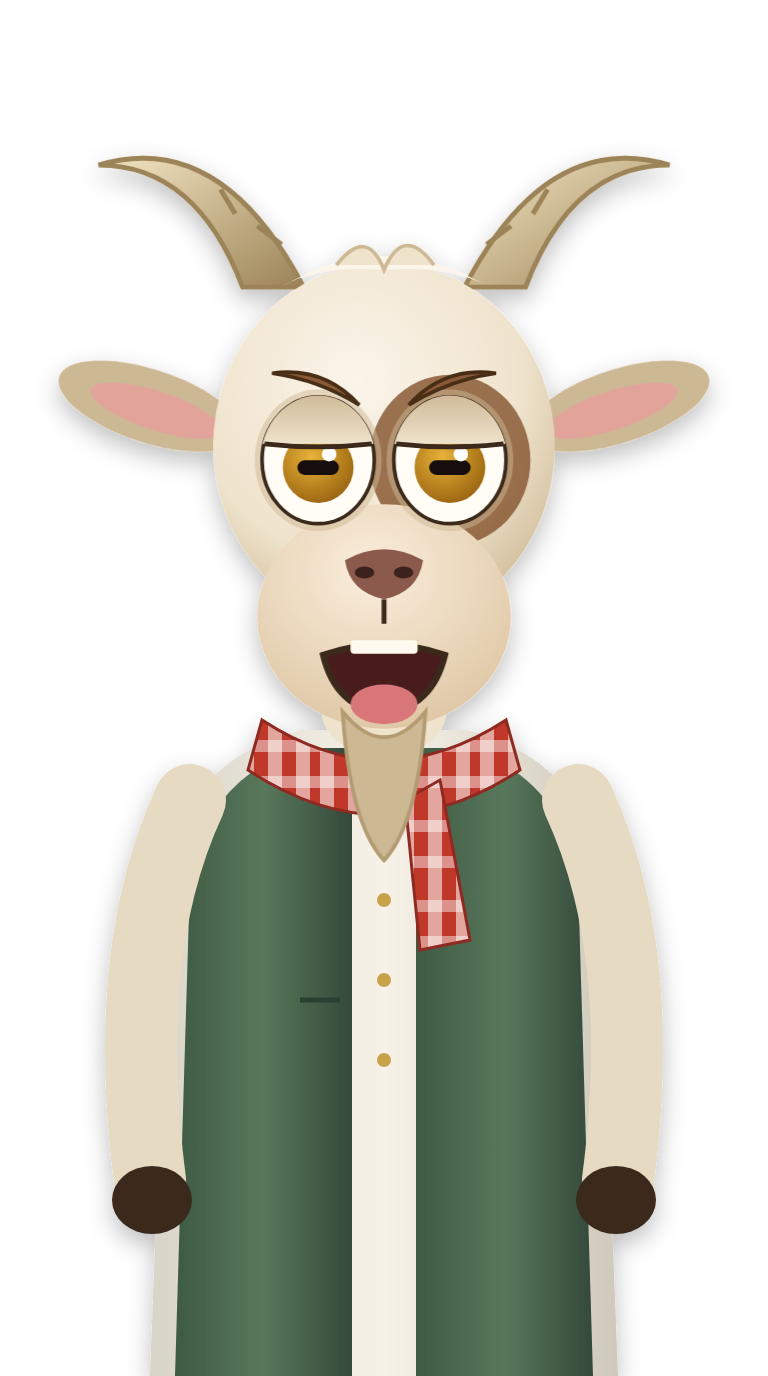
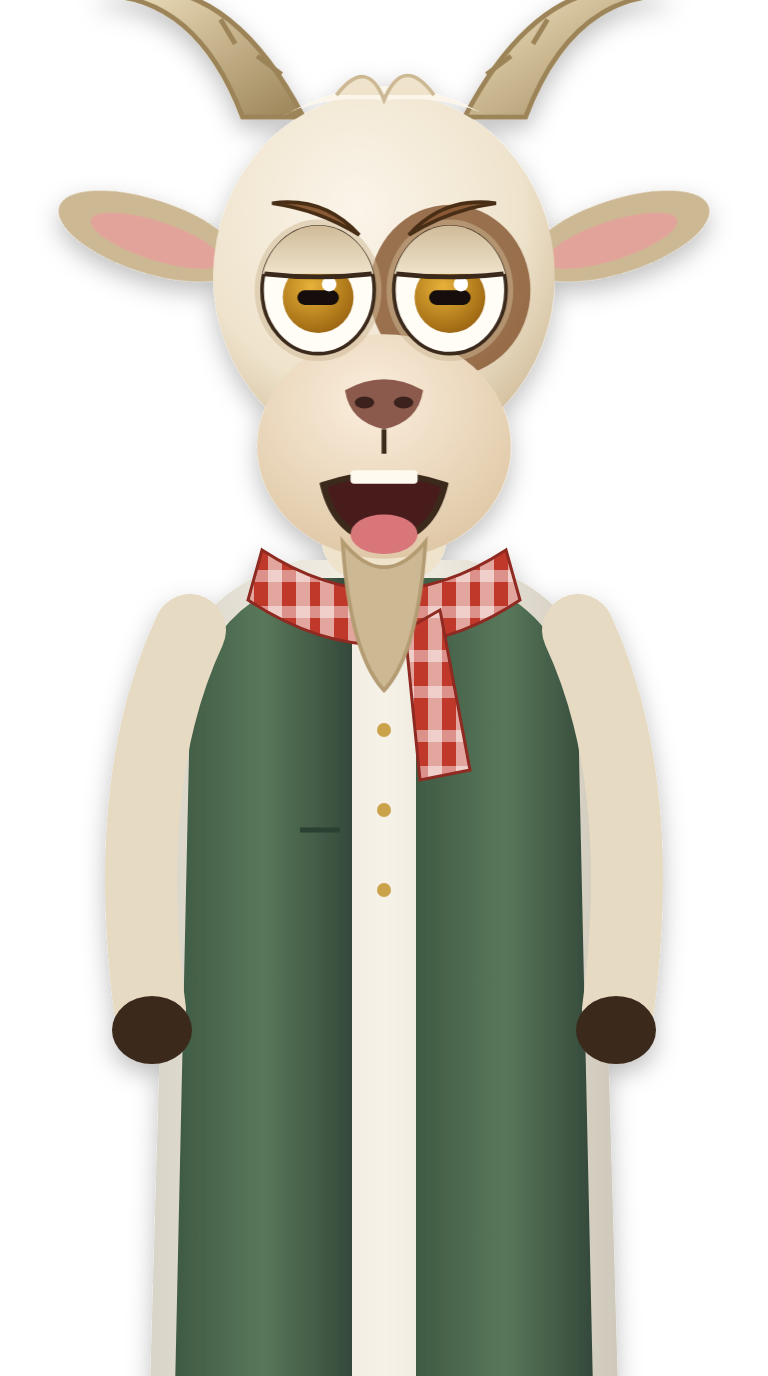
Visual fixes from preview: cold-open/mascot lines split (joke + full character), no clips/hook stamp on line 0, no other lines' photos/joke graphics leaking, caption cards fill gaps, goat raised above caption; preview.py local render check
Claude-Session: https://claude.ai/code/session_01WqQif6KizRMq6zL55UFwQC

diff --git a/reel_studio.py b/reel_studio.py
@@ -38,11 +38,29 @@ def studio_bg(w=W, h=H):
     return im.filter(ImageFilter.GaussianBlur(3 * w / W))
 
 
+def _flat_cut(im):
+    """किनारों से जुड़ा, कोने जैसे रंग वाला हिस्सा = पृष्ठभूमि (हमारे किरदार सादी सलेटी पृष्ठभूमि पर बने हैं)."""
+    from scipy import ndimage
+    a = np.asarray(im).astype(int)
+    bg = np.median(np.concatenate([a[:8, :8].reshape(-1, 3), a[:8, -8:].reshape(-1, 3)]), axis=0)
+    near = np.abs(a - bg).sum(2) < 60
+    lab, _ = ndimage.label(near)
+    edge = set(np.unique(np.concatenate([lab[0], lab[-1], lab[:, 0], lab[:, -1]]))) - {0}
+    alpha = np.where(np.isin(lab, list(edge)), 0, 255).astype(np.uint8)
+    out = im.convert("RGBA")
+    out.putalpha(Image.fromarray(alpha).filter(ImageFilter.GaussianBlur(1.2)))
+    return out
+
+
 def cutout(path):
     global _sess
     im = Image.open(path)
     if im.mode == "RGBA" and im.getextrema()[3][0] < 10:    # पहले से कटा हुआ (बकरा mascot): जैसा है वैसा
         return im
+    try:
+        import rembg  # noqa: F401
+    except ImportError:                                   # preview (बिना rembg): सलेटी सादी पृष्ठभूमि रंग से हटाओ
+        return _flat_cut(im.convert("RGB"))
     from rembg import new_session, remove
     if _sess is None:
         _sess = new_session("isnet-general-use")
@@ -763,7 +781,9 @@ def render(ep, segs, chars, out, preview):
     bases = _bases()
     headline = ep.get("breaking") or ep.get("title") or ""
     last_react = max([i for i, s in enumerate(segs) if s.get("react")], default=-1)
-    pool = list(dict.fromkeys(p for s in segs for p in (s.get("vis") or []) if isinstance(p, Path)))   # सारी असली तस्वीरें
+    # सारी असली तस्वीरें — पर किसी line का अपना बना joke-दृश्य (सूचना/WhatsApp/phone) दूसरी line पर कभी नहीं:
+    # 29 Oct preview में चाचा की line पर ही आख़िरी पंच वाला "5:01" phone दिख गया था (punch पहले ही खुल गया)
+    pool = list(dict.fromkeys(p for s in segs for p in (s.get("vis") or []) if isinstance(p, Path) and "own" not in p.name))
     v2 = ep.get("style") in ("v2", "nochar")
     nochar = ep.get("style") == "nochar"                 # बिना किरदार: सिर्फ़ तस्वीर/clip + बड़े अक्षर + आवाज़
     k, seed, last_screen, prev_im, last_vis, carry = 0, 0, None, None, [], 0
@@ -823,7 +843,8 @@ def render(ep, segs, chars, out, preview):
             if key:
                 extra.append({"big": key})
             # दूसरी lines की फ़ोटो वापस लाना = "same same" (28 Oct, मालिक) — सिर्फ़ वो जो अब तक कभी नहीं दिखीं
-            extra += [p for p in pool if p not in vis and p not in last_vis and p not in shown_ever]
+            # दूसरी lines की फ़ोटो यहाँ नहीं (29 Oct preview: बबलू की खबर पर चाचा वाली "चायवाला" फ़ोटो = बेमेल).
+            # कमी हो तो नीचे वाला खिंचाव (हर फ़ोटो 2.8s तक) + इसी line की बात वाले card
             for e_ in extra:
                 if len(vis) >= need:
                     break
@@ -835,8 +856,17 @@ def render(ep, segs, chars, out, preview):
             chunk = min(int(2.8 * FPS), math.ceil(n / len(vis)))   # QA: 3 सेकंड से ज़्यादा एक तस्वीर = रद्द
             if len(vis) * chunk < n and not any(isinstance(v, dict) for v in vis):
                 key = key_phrase(ln)
-                if key:
-                    vis.append({"big": key})
+                parts = [x.strip(" ।.!?") for x in re.split(r"…|(?<!\d)\.(?!\d)|।|(?<!\d),(?!\d)|—|\?|:",
+                                                             str(ln.get("caption") or ln.get("say") or ""))]
+                parts = [x for x in parts if 2 <= len(x.split()) <= 7]
+                wd = str(ln.get("caption") or ln.get("say") or "").split()
+                if not parts and len(wd) >= 4:                    # एक लंबा वाक्य: आधा-आधा
+                    parts = [" ".join(wd[:len(wd) // 2]), " ".join(wd[len(wd) // 2:])]
+                pal = [(28, 58, 140), (150, 32, 60), (18, 112, 84)]
+                for q, x in enumerate(([key] if key else []) + [x for x in parts if x != key]):
+                    if len(vis) * chunk >= n:
+                        break
+                    vis.append({"big": x, "color": pal[q % 3]})
         shown_ever.update(v for v in vis if isinstance(v, Path))
         for v in vis:
             if isinstance(v, Path):
@@ -946,7 +976,7 @@ def render(ep, segs, chars, out, preview):
                         karaoke_timed(d, cap_text, t / FPS, wtimes, cy)
                     else:
                         karaoke_safe(d, cap_text, t / n, cy, span)
-            if si == 0 and not react and not st_text and t == int(HOOK_EVENT * FPS):   # hook का "event"
+            if si == 0 and not react and not st_text and t == int(HOOK_EVENT * FPS) and not ep.get("cold_open"):   # hook का "event" (cold open के joke को न ढके)
                 st_text, st_t = ep.get("hook_stamp") or "अधपकी खबर!", 0
             if bool(ln.get("punch")) and not react and not st_text and t >= n * 0.6:
                 st_text = ln.get("stamp") or STAMP_OF.get(ln.get("react_pose"), "")

diff --git a/preview.py b/preview.py
@@ -1,0 +1,89 @@
+"""Render से पहले जाँच (29 Oct, मालिक: "credit बर्बाद हो रहे") — बिना Gemini, बिना SadTalker, बिना GitHub.
+वही reel_studio.render, वही shot/cold open/अपने दृश्य; आवाज़ की जगह अंदाज़े की लंबाई (शब्द ÷ 2.5/s),
+search वाली फ़ोटो की जगह "📷 <खोज>" वाला card. Render तभी जब ये preview पास हो.
+
+    python preview.py episodes/x.json [out_dir]
+      → out_dir/preview.mp4, open.jpg (पहले 5 सेकंड, 4 frame/सेकंड), all.jpg (हर सेकंड)
+"""
+import json
+import shutil
+import subprocess
+import sys
+import wave
+from pathlib import Path
+
+import numpy as np
+from PIL import Image, ImageDraw
+
+import cold_open
+import reel_studio
+import talk_episode as te
+import talk_test as tt
+
+ROOT = Path(__file__).parent
+
+
+def fake_wav(path, secs, seed):
+    sr = 24000
+    t = np.arange(int(sr * secs)) / sr
+    rng = np.random.default_rng(seed)
+    syl = (np.sin(2 * np.pi * 4.2 * t + rng.uniform(0, 6)) > -0.2).astype(float)     # शब्दांश जैसी लय (होंठ हिलें)
+    a = 0.25 * np.sin(2 * np.pi * 170 * t) * syl
+    a[: int(sr * 0.12)] = 0
+    with wave.open(str(path), "w") as f:
+        f.setnchannels(1)
+        f.setsampwidth(2)
+        f.setframerate(sr)
+        f.writeframes((a * 32767).astype(np.int16).tobytes())
+
+
+def placeholder(path, query):
+    im = Image.new("RGB", (1280, 720), (40, 70, 60))
+    d = ImageDraw.Draw(im)
+    d.text((640, 300), "📷 असली फ़ोटो (खोज):", font=tt.font(44), fill=(200, 230, 210), anchor="mm")
+    d.text((640, 400), str(query)[:40], font=tt.font(56), fill="white", anchor="mm")
+    im.save(path)
+
+
+def run(script, out_dir):
+    out_dir = Path(out_dir)
+    if out_dir.exists():
+        shutil.rmtree(out_dir)
+    (out_dir / "vis").mkdir(parents=True)
+    ep = json.load(open(script, encoding="utf-8"))
+    cold_open.for_episode(ep, out_dir / "cold")
+    segs = []
+    for i, ln in enumerate(ep["lines"]):
+        shot = te.pick_shot(ep, i, ln)
+        ln["shot"] = shot
+        vis = []
+        for k, vf in enumerate(ln.get("visual_files") or []):
+            src = Path(vf) if Path(vf).is_absolute() else ROOT / vf
+            dst = out_dir / "vis" / f"{i}_0own{k}{src.suffix}"
+            shutil.copy(src, dst)
+            vis.append(dst)
+        if not vis and ln.get("visuals") and shot != "close":
+            dst = out_dir / "vis" / f"{i}_ph.png"
+            placeholder(dst, ln["visuals"][0])
+            vis.append(dst)
+        wav = out_dir / f"{i:02d}.wav"
+        fake_wav(wav, len(ln.get("say", "").split()) / 2.5 + 0.4, i)
+        sprite = te.sprite_of(ep, ln["who"])
+        st = ln.get("set") or ("studio" if ln["who"] == "bablu" else "village")
+        still_p = out_dir / f"still_{i}.png"
+        reel_studio.source_for(sprite, ln.get("expr", ""), out_dir / f"src_{i}.png", still_p, st,
+                               "close" if shot == "close" else "band")
+        talk = {"folder": sprite, "expr": ln.get("expr", ""), "wav": wav, "set": st}
+        segs.append({"ln": ln, "wav": wav, "face": None, "talk": talk, "still": Image.open(still_p).convert("RGB"),
+                     "vis": vis, "shot": shot, "voice": te.voice_only(ep, ln)})
+    out = out_dir / "preview.mp4"
+    secs = reel_studio.render(ep, segs, te.CHARS, out, out_dir / "first.jpg")
+    for name, vf in (("open.jpg", "trim=0:5,fps=4,scale=270:-1,tile=10x2"), ("all.jpg", "fps=1,scale=180:-1,tile=10x8")):
+        subprocess.run(["ffmpeg", "-y", "-loglevel", "error", "-i", str(out), "-vf", vf, "-frames:v", "1",
+                        str(out_dir / name)], check=True)
+    print(f"preview: {out} ({secs:.1f}s)")
+    return out
+
+
+if __name__ == "__main__":
+    run(sys.argv[1], sys.argv[2] if len(sys.argv) > 2 else "/tmp/bakra_preview")

diff --git a/bakra_sprite.py b/bakra_sprite.py
@@ -95,11 +95,11 @@ def svg(expr="neutral", state="closed", blink=False, pose=None):
   <rect y="20" width="80" height="12" fill="#fff" opacity=".45"/><rect y="56" width="80" height="12" fill="#fff" opacity=".45"/></pattern>
  <filter id="sh" x="-20%" y="-20%" width="140%" height="140%"><feDropShadow dx="0" dy="10" stdDeviation="12" flood-opacity=".25"/></filter>
 </defs>
-<g filter="url(#sh)">
+<g transform="translate(0 -170)"><g filter="url(#sh)">
  <!-- शरीर: कुर्ता + हरी बंडी -->
- <path d="M150,1376 L170,860 Q190,760 300,730 L468,730 Q578,760 598,860 L618,1376Z" fill="url(#kurta)"/>
- <path d="M175,1376 L190,880 Q205,780 300,748 L352,748 L352,1376Z" fill="url(#jacket)"/>
- <path d="M593,1376 L578,880 Q563,780 468,748 L416,748 L416,1376Z" fill="url(#jacket)"/>
+ <path d="M150,1560 L170,860 Q190,760 300,730 L468,730 Q578,760 598,860 L618,1560Z" fill="url(#kurta)"/>
+ <path d="M175,1560 L190,880 Q205,780 300,748 L352,748 L352,1560Z" fill="url(#jacket)"/>
+ <path d="M593,1560 L578,880 Q563,780 468,748 L416,748 L416,1560Z" fill="url(#jacket)"/>
  <circle cx="384" cy="900" r="7" fill="#c9a24a"/><circle cx="384" cy="980" r="7" fill="#c9a24a"/><circle cx="384" cy="1060" r="7" fill="#c9a24a"/>
  <path d="M300,1000 L340,1000" stroke="#2c3f30" stroke-width="5"/>
  <!-- बाँहें + खुर -->
@@ -134,6 +134,7 @@ def svg(expr="neutral", state="closed", blink=False, pose=None):
  </g>
 </g>
 {hand}
+</g>
 </svg>'''
 
 

diff --git a/talk_episode.py b/talk_episode.py
@@ -147,7 +147,8 @@ def prep(script_path):
                 def fit(i):
                     ln = ep["lines"][i]
                     return len(tw & visuals._stems(ln.get("say", "") + " " + " ".join(ln.get("photo_hi") or [])))
-                free = [i for i in range(len(ep["lines"])) if not list((IN / "broll").glob(f"{i}_clip*"))]
+                free = [i for i in range(len(ep["lines"])) if not list((IN / "broll").glob(f"{i}_clip*"))
+                        and i > 0 and not ep["lines"][i].get("visual_files")]   # पहली line पर clip नहीं (29 Oct: joke 1.5s में गायब)
                 if not free:
                     break
                 li = max(free, key=lambda i: (fit(i), -i))
@@ -236,6 +237,10 @@ def pick_shot(ep, i, ln):
         return "full"
     if voice_only(ep, ln):
         return "full"
+    if i == 0 and ep.get("cold_open") or ln.get("who") in MASCOT:
+        # 29 Oct: full shot में cold open का phone दोनों तरफ़ से कटा और बकरा कोने के गोले में सिर्फ़ सींग दिखे —
+        # अब ऊपर joke पूरा, नीचे किरदार पूरा
+        return "split"
     return reel_studio.shot_v2(i, ln) if style == "v2" else reel_studio.shot_for(i, ln)
 
 

diff --git a/cold_open.py b/cold_open.py
@@ -199,7 +199,7 @@ def for_episode(ep, out_dir):
     full, zoom = out_dir / "cold_full.png", out_dir / "cold_zoom.png"
     render(co["kind"], co.get("data") or {}, full, zoom)
     idx = [i for i in (co.get("lines") or [0, 1]) if 0 <= i < len(ep["lines"])] or [0]
-    ep["lines"][idx[0]]["visual_files"] = [str(zoom)]
+    ep["lines"][idx[0]]["visual_files"] = [str(zoom)] if len(idx) > 1 else [str(zoom), str(full)]   # अकेली line: पूरी line joke ही दिखे
     for i in idx[1:]:
         ep["lines"][i]["visual_files"] = [str(full)]
     return [zoom, full]
